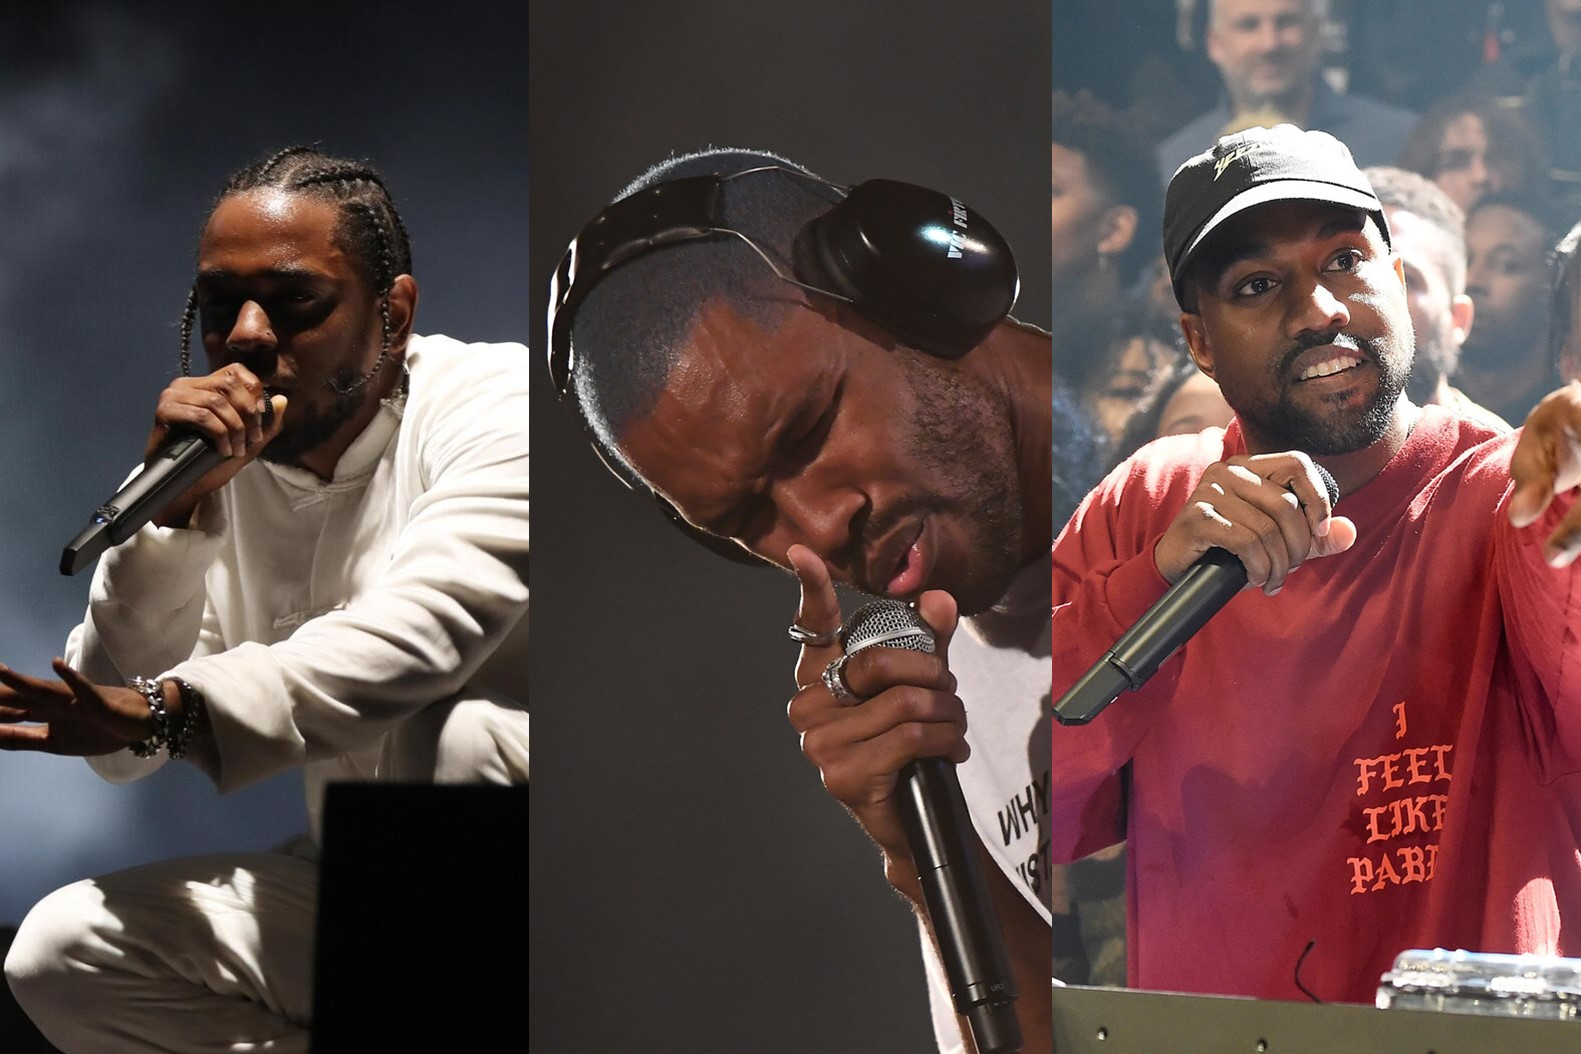
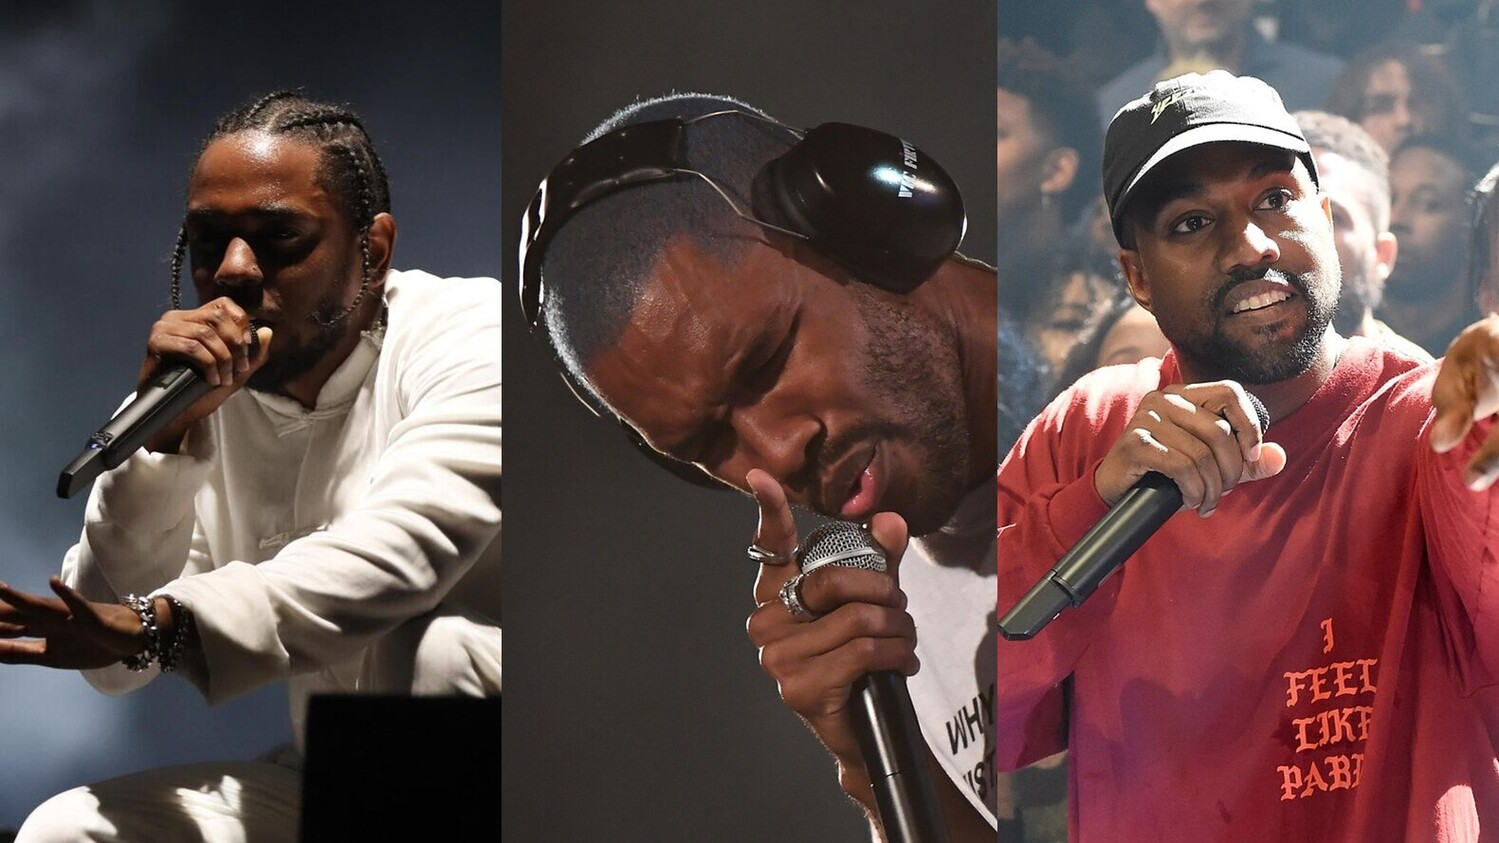
1

diff --git a/styles/style.css b/styles/style.css
@@ -13,6 +13,7 @@
 .slide {
   display: flex;
   flex-direction: row-reverse;
+  justify-content: space-between;
   border: 3px solid var(--border);
   padding: 18px 18px 12px;
 }
@@ -87,7 +88,7 @@
   .article-kicker {
     font-size: 18px;
     line-height: 18px;
-  }  
+  }
 
   .slide-figure-wrapper {
     max-width: 100%;
@@ -108,6 +109,10 @@
 
   .slide-figure-wrapper {
     margin: 24px 0 20px;
+  }
+
+  .slide-title {
+    margin-top: 0.5rem;
   }
 
   .slide-subtitle {